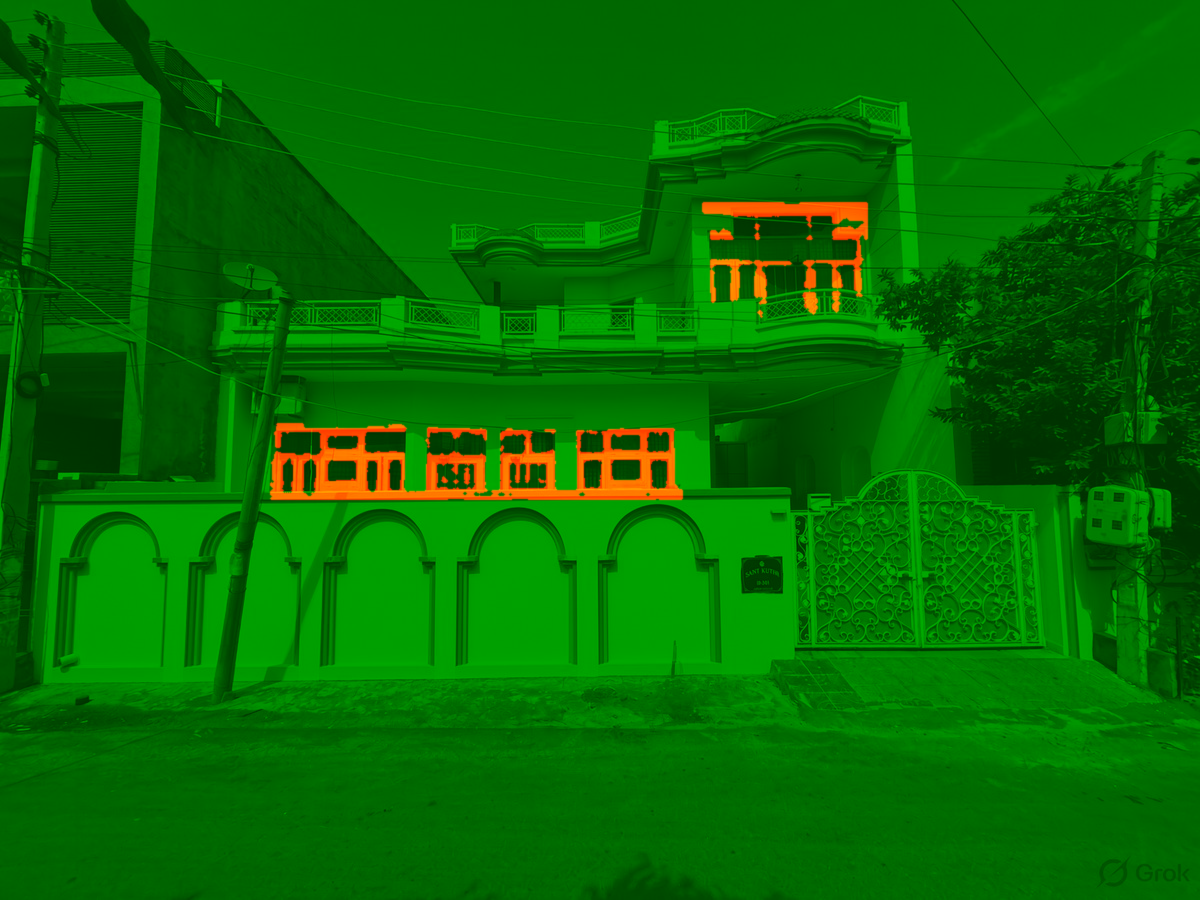
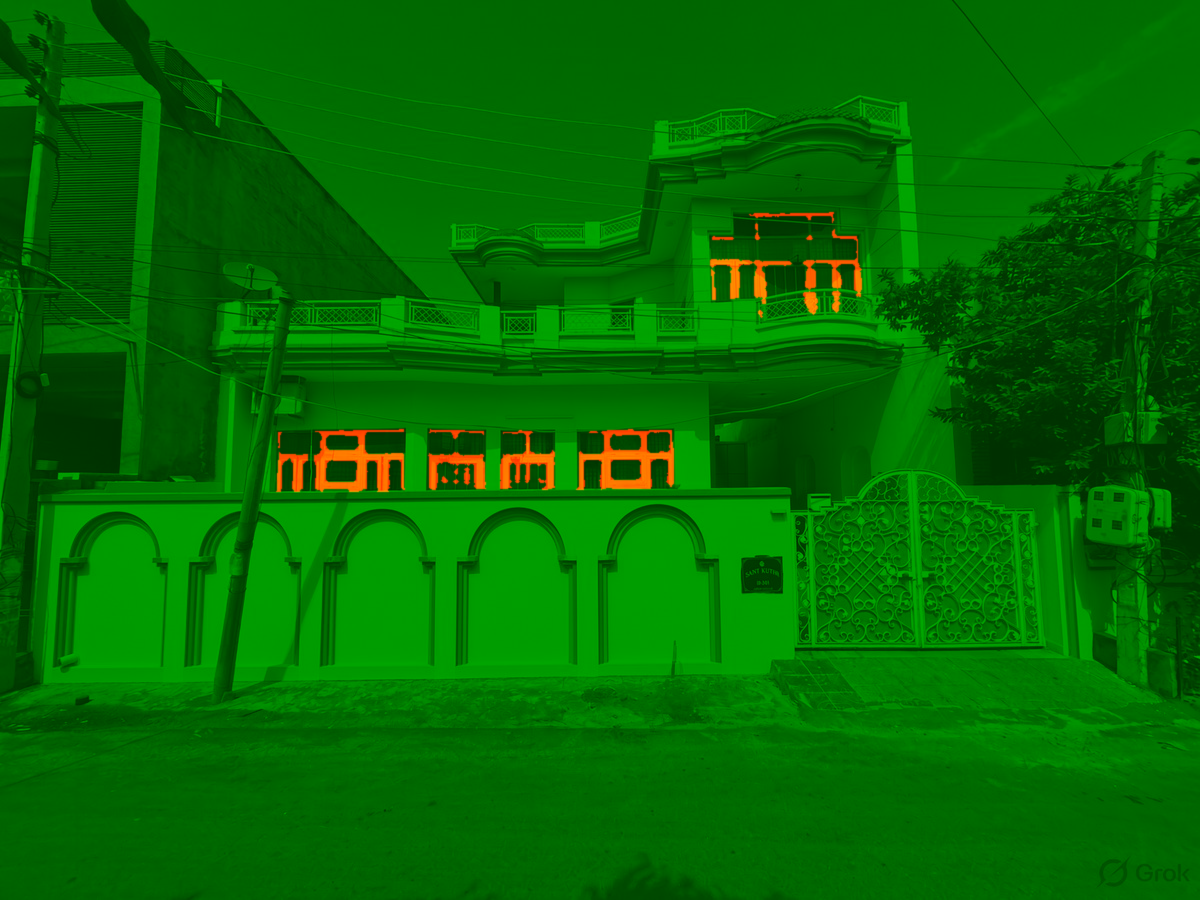
Windows colour no longer spills onto the boundary wall cap and other trim
Claude-Session: https://claude.ai/code/session_01QxgMQVmJUEFPX2ERhwy2pN

Changed region(s): [[0.2158, 0.4667, 0.5858, 0.56], [0.5858, 0.2178, 0.74, 0.3111], [0.5858, 0.3111, 0.6167, 0.3422]]

diff --git a/index.html b/index.html
@@ -272,13 +272,13 @@ for (const k of ["body", "trim"]) { const m = SHADES.find(x => `${x[0]} ${x[1]}`
 // Two sets of photos: soft daylight (cloudy day) and full sun. The gate close-up is shared.
 const PHOTOS = {
   soft: {
-    front: { photo: "img/soft-front.jpg?v=202610151356", map: "img/soft-front-map.png?v=202610151356", ceil: "img/soft-front-extra.png?v=202610151356", real: "img/soft-front-today.jpg?v=202610151356", win: "img/soft-front-win.png?v=202610151356", label: "Front of the house" },
-    court: { photo: "img/soft-court.jpg?v=202610151356", map: "img/soft-court-map.png?v=202610151356", ceil: "img/soft-court-extra.png?v=202610151356", real: "img/soft-court-today.jpg?v=202610151356", win: "img/soft-court-win.png?v=202610151356", label: "Courtyard" },
+    front: { photo: "img/soft-front.jpg?v=202610151356", map: "img/soft-front-map.png?v=202610151356", ceil: "img/soft-front-extra.png?v=202610151356", real: "img/soft-front-today.jpg?v=202610151356", win: "img/soft-front-win.png?v=202610151400", label: "Front of the house" },
+    court: { photo: "img/soft-court.jpg?v=202610151356", map: "img/soft-court-map.png?v=202610151356", ceil: "img/soft-court-extra.png?v=202610151356", real: "img/soft-court-today.jpg?v=202610151356", win: "img/soft-court-win.png?v=202610151400", label: "Courtyard" },
   },
   sun: {
-  front: { photo: "img/front.jpg?v=202610151328", map: "img/front-map.png?v=202610151328", ceil: "img/front-extra.png?v=202610151328", real: "img/front-today.jpg?v=202610151328", win: "img/front-win.png?v=202610151349", label: "Front of the house" },
-  court: { photo: "img/court.jpg?v=202610151328", map: "img/court-map.png?v=202610151328", ceil: "img/court-extra.png?v=202610151328", real: "img/court-today.jpg?v=202610151328", win: "img/court-win.png?v=202610151349", label: "Courtyard" },
-  gate: { photo: "img/gate.jpg?v=202610151328", map: "img/gate-map.png?v=202610151333", ceil: "img/gate-extra.png?v=202610151328", real: "img/gate-today.jpg?v=202610151328", win: "img/gate-win.png?v=202610151349", label: "Main gate" },
+  front: { photo: "img/front.jpg?v=202610151328", map: "img/front-map.png?v=202610151328", ceil: "img/front-extra.png?v=202610151328", real: "img/front-today.jpg?v=202610151328", win: "img/front-win.png?v=202610151400", label: "Front of the house" },
+  court: { photo: "img/court.jpg?v=202610151328", map: "img/court-map.png?v=202610151328", ceil: "img/court-extra.png?v=202610151328", real: "img/court-today.jpg?v=202610151328", win: "img/court-win.png?v=202610151400", label: "Courtyard" },
+  gate: { photo: "img/gate.jpg?v=202610151328", map: "img/gate-map.png?v=202610151333", ceil: "img/gate-extra.png?v=202610151328", real: "img/gate-today.jpg?v=202610151328", win: "img/gate-win.png?v=202610151400", label: "Main gate" },
   },
 };
 PHOTOS.soft.gate = PHOTOS.sun.gate;
